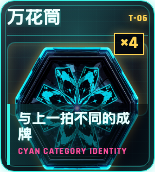
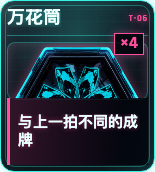
Clarify Batch A Joker card read zone
Revise the one-card renderer so Batch A cards prioritize real trigger text, protected description space, and target-specific pink secondary identity while preserving the cyan shell.

Constraint: Touch only the renderer and regenerated Batch A card/preview outputs; source, runtime, prompt, and unrelated files remain unchanged.

Rejected: Replacing the removed placeholder with another label | the description region should carry only trigger_zh for these cards.

Rejected: Letting target rarity drive secondary accents | targets need pink identity even when manifest rarity is rare.

Confidence: high

Scope-risk: narrow

Directive: Keep art clipped above the description boundary and keep Batch A output regeneration paired with renderer geometry changes.

Tested: Re-rendered twin, stair, mono, triplet, lonewolf, kaleido, shredder, wrecker, encore, finale, turnover, tipjar, chord, neonsign, vinyl at scale 8 and 1; all cards 1240x1376 and previews 155x172; placeholder literal search returned no matches; preview spot-check confirmed pink target accent, cyan support accent, and protected description region; git diff --cached --check.

Not-tested: Formal visual-verdict rerun because this worker was given the prior score and revision requirements but no reference image payload for a new verdict.

diff --git a/tools/art/joker_card_renderer.html b/tools/art/joker_card_renderer.html
@@ -27,14 +27,14 @@
       --radius: calc(14px * var(--scale));
       --outer: calc(6px * var(--scale));
       --header: calc(35px * var(--scale));
-      --art: calc(74px * var(--scale));
-      --desc: calc(61px * var(--scale));
+      --art: calc(58px * var(--scale));
+      --desc: calc(67px * var(--scale));
       --name-size: calc(18px * var(--scale));
       --amount-size: calc(17px * var(--scale));
-      --effect-size: calc(14px * var(--scale));
+      --effect-size: calc(15px * var(--scale));
       --cyan: #36f2e3;
       --hot: #ff4f9d;
-      --rarity: #36f2e3;
+      --accent: #36f2e3;
     }
     html,
     body {
@@ -133,11 +133,11 @@
     }
     .code {
       flex: 0 0 auto;
-      color: var(--rarity);
+      color: var(--accent);
       font-size: calc(9px * var(--scale));
       font-weight: 800;
       letter-spacing: .08em;
-      text-shadow: 0 0 calc(8px * var(--scale)) color-mix(in srgb, var(--rarity) 75%, transparent);
+      text-shadow: 0 0 calc(8px * var(--scale)) color-mix(in srgb, var(--accent) 75%, transparent);
     }
     .art {
       position: relative;
@@ -145,19 +145,20 @@
       margin: calc(6px * var(--scale)) var(--outer) 0;
       display: grid;
       place-items: center;
+      overflow: hidden;
       border: calc(1px * var(--scale)) solid rgba(54, 242, 227, .34);
       border-radius: calc(8px * var(--scale));
       background:
-        radial-gradient(circle at 50% 50%, color-mix(in srgb, var(--rarity) 19%, transparent), transparent 58%),
+        radial-gradient(circle at 50% 50%, color-mix(in srgb, var(--accent) 17%, transparent), transparent 58%),
         linear-gradient(180deg, rgba(255,255,255,.04), transparent);
-      box-shadow: inset 0 0 calc(13px * var(--scale)) color-mix(in srgb, var(--rarity) 18%, transparent);
+      box-shadow: inset 0 0 calc(12px * var(--scale)) color-mix(in srgb, var(--accent) 16%, transparent);
       z-index: 1;
     }
     .art img {
       width: 100%;
       height: 100%;
       object-fit: contain;
-      filter: drop-shadow(0 0 calc(5px * var(--scale)) color-mix(in srgb, var(--rarity) 50%, transparent));
+      filter: drop-shadow(0 0 calc(5px * var(--scale)) color-mix(in srgb, var(--accent) 48%, transparent));
     }
     .amount {
       position: absolute;
@@ -165,14 +166,14 @@
       top: calc(32px * var(--scale));
       min-width: calc(30px * var(--scale));
       padding: calc(1px * var(--scale)) calc(5px * var(--scale));
-      border: calc(1px * var(--scale)) solid var(--rarity);
+      border: calc(1px * var(--scale)) solid var(--accent);
       background: rgba(3, 6, 13, .92);
-      color: var(--rarity);
+      color: var(--accent);
       font-size: var(--amount-size);
       font-weight: 800;
       line-height: 1.05;
       text-align: center;
-      box-shadow: 0 0 calc(8px * var(--scale)) color-mix(in srgb, var(--rarity) 38%, transparent);
+      box-shadow: 0 0 calc(8px * var(--scale)) color-mix(in srgb, var(--accent) 38%, transparent);
       z-index: 3;
     }
     .desc {
@@ -181,11 +182,13 @@
       right: var(--outer);
       bottom: var(--outer);
       height: var(--desc);
-      padding: calc(8px * var(--scale)) calc(8px * var(--scale)) calc(5px * var(--scale));
-      border-left: calc(3px * var(--scale)) solid var(--cyan);
+      padding: calc(6px * var(--scale)) calc(8px * var(--scale)) calc(6px * var(--scale));
+      display: flex;
+      align-items: center;
+      border-left: calc(3px * var(--scale)) solid var(--accent);
       background:
-        linear-gradient(90deg, rgba(54, 242, 227, .16), transparent 82%),
-        rgba(2, 5, 12, .55);
+        linear-gradient(90deg, color-mix(in srgb, var(--accent) 18%, transparent), transparent 82%),
+        rgba(2, 5, 12, .82);
       z-index: 2;
     }
     .trigger {
@@ -196,18 +199,8 @@
       color: #ebffff;
       font-size: var(--effect-size);
       font-weight: 650;
-      line-height: 1.12;
-      text-shadow: 0 0 calc(5px * var(--scale)) rgba(54, 242, 227, .35);
-    }
-    .rule {
-      margin-top: calc(3px * var(--scale));
-      color: var(--hot);
-      font-size: calc(9px * var(--scale));
-      font-weight: 800;
-      letter-spacing: .08em;
-      white-space: nowrap;
-      overflow: hidden;
-      text-overflow: ellipsis;
+      line-height: 1.16;
+      text-shadow: 0 0 calc(5px * var(--scale)) color-mix(in srgb, var(--accent) 42%, transparent);
     }
   </style>
 </head>
@@ -266,9 +259,9 @@
         return;
       }
 
-      const accent = RARITY[card.rarity] || RARITY.common;
-      document.documentElement.style.setProperty("--rarity", accent);
-      root.className = "card";
+      const accent = card.kind === "target" ? "#ff4f9d" : (RARITY[card.rarity] || RARITY.common);
+      document.documentElement.style.setProperty("--accent", accent);
+      root.className = `card ${card.kind === "target" ? "target" : "support"}`;
       root.innerHTML = `
         <div class="grid"></div>
         <header class="header">
@@ -279,7 +272,6 @@
         <div class="amount"></div>
         <section class="desc">
           <div class="trigger"></div>
-          <div class="rule">CYAN CATEGORY IDENTITY</div>
         </section>
       `;
       root.querySelector(".name").textContent = card.cn;
